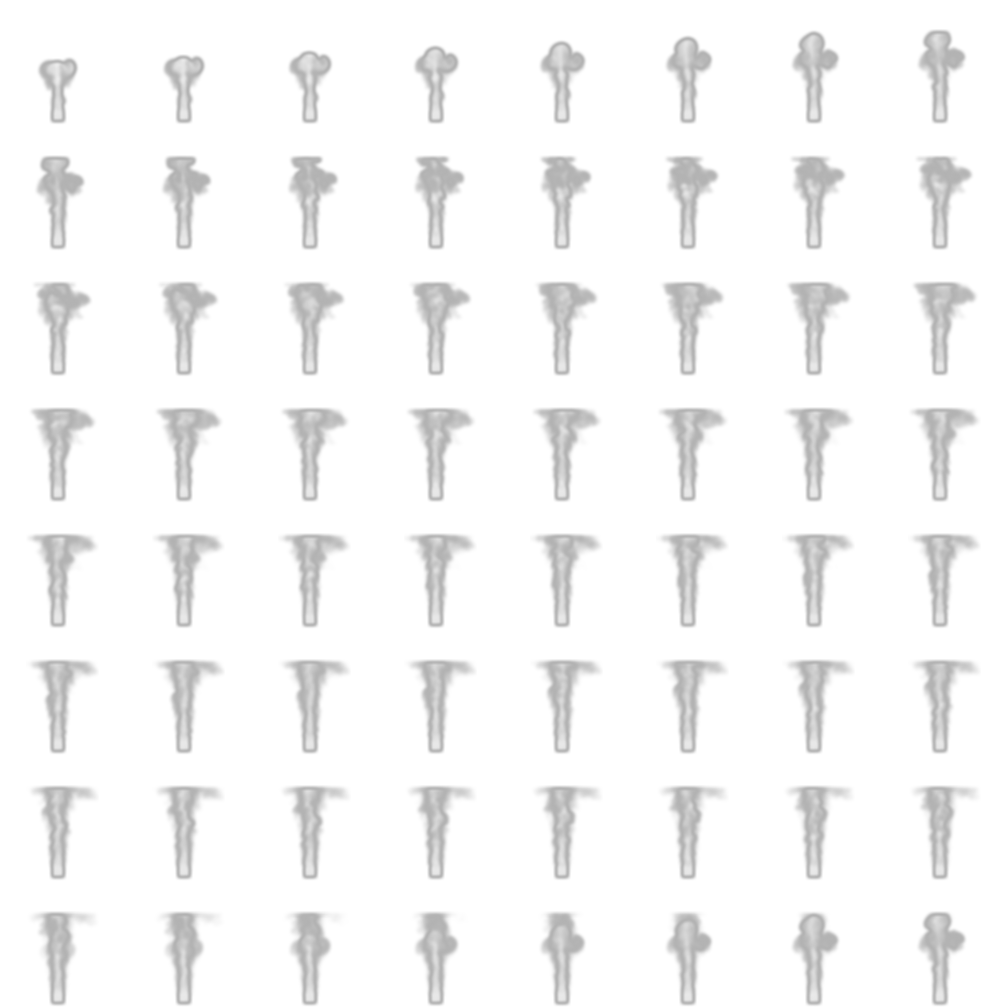
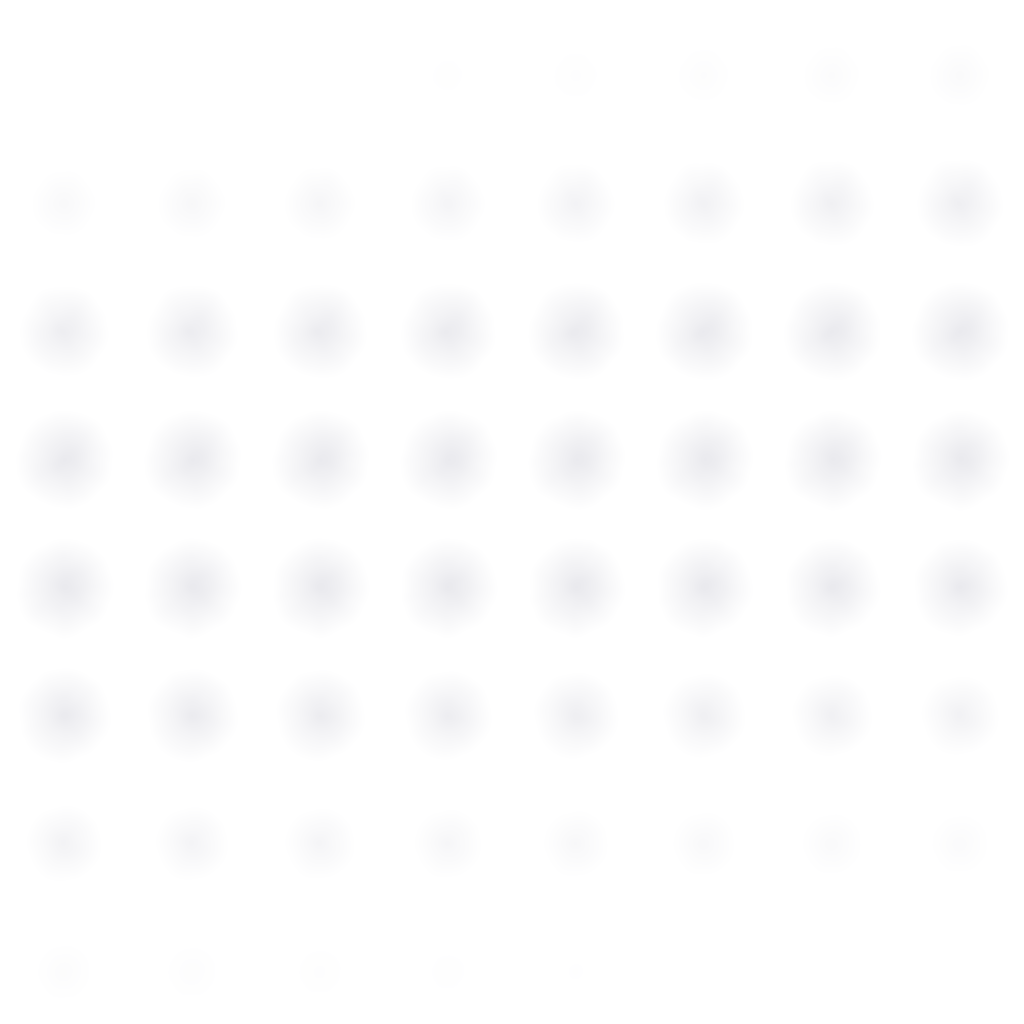
fix(jpov): puff 帧间连续性（去高频震颤）+ 黑烟也换 puff
- render_puff：噪声改「固定种子 + 随帧平滑漂移」，去掉逐帧变种子导致的纹理高频震颤；
  内部细节降频/降幅（减「细碎」）。新增 kind=smoke（白灰 puff，软圆）。
- 火/烟 flipbook 均改用 puff 程序化烘焙 → 烟不再「印章整片烟柱」。

diff --git a/tools/jpov/tools/fire/make_flipbook.py b/tools/jpov/tools/fire/make_flipbook.py
@@ -85,37 +85,47 @@ def _fbm(x, y, seed, octaves=3):
     return v / 0.875
 
 
-def render_puff(tiles, cell):
-    """烘「经典火舌 puff」flipbook：每格 = 一小团火（不规则软轮廓 + 内部噪声细节 +
-    随帧闪烁演化 + 点火→峰值→熄灭包络）。不需要体数据。"""
+def render_puff(tiles, cell, kind="fire"):
+    """烘 puff flipbook：每格 = 一小团（不规则软轮廓 + 内部噪声细节 + 点火→熄灭包络）。
+    kind="fire"：火色；kind="smoke"：白灰（引擎端染黑）。
+    ★ 帧间连续性：噪声用**固定种子 + 随帧平滑偏移**，不用逐帧变种子（否则纹理高频震颤）。"""
     nframes = tiles * tiles
     sheet = np.zeros((tiles * cell, tiles * cell, 4), np.float32)
     xs = (np.arange(cell, dtype=np.float32) + 0.5) / cell
     ys = (np.arange(cell, dtype=np.float32) + 0.5) / cell
-    U, V = np.meshgrid(xs, ys)          # V: 0=图像顶行
-    FY = 1.0 - V                        # FY: 0=底
+    U, V = np.meshgrid(xs, ys)
+    FY = 1.0 - V
     dx = U - 0.5
-    dyv = FY - 0.40                     # 重心略偏下
+    dyv = FY - 0.40
     ang = np.arctan2(dyv, dx)
-    rr = np.sqrt(dx * dx + (dyv * 0.82) ** 2)   # 竖直略拉长（火舌形）
+    stretch = 0.82 if kind == "fire" else 1.0     # 火舌略拉长；烟更圆
+    rr = np.sqrt(dx * dx + (dyv * stretch) ** 2)
     for f in range(nframes):
         t = f / float(max(1, nframes - 1))
-        env = min(t / 0.25, (1.0 - t) / 0.35)
+        if kind == "fire":
+            env = min(t / 0.25, (1.0 - t) / 0.35)
+        else:
+            env = min(t / 0.35, (1.0 - t) / 0.45)
         env = 0.0 if env < 0.0 else (1.0 if env > 1.0 else env)
-        env = env * env * (3.0 - 2.0 * env)     # smoothstep 点火/熄灭
-        wob = np.vectorize(lambda a_: _fbm(np.cos(a_) * 1.4 + 0.5,
-                                           np.sin(a_) * 1.4 + 0.5,
-                                           int(f) * 13 + 7))(ang)
-        rad = (0.30 + 0.10 * wob) * (0.55 + 0.45 * env)
+        env = env * env * (3.0 - 2.0 * env)
+        # 平滑的帧漂移（小）：轮廓与内部细节都用它随帧缓慢变 → 无高频震颤。
+        fd = f * (0.06 if kind == "fire" else 0.04)
+        wob = np.vectorize(lambda a_: _fbm(np.cos(a_) * 1.3 + 0.5,
+                                           np.sin(a_) * 1.3 + 0.5 + fd, 7))(ang)
+        r0 = 0.30 if kind == "fire" else 0.34
+        rad = (r0 + 0.09 * wob) * (0.55 + 0.45 * env)
         edge = np.clip(1.0 - rr / np.maximum(rad, 1e-4), 0.0, 1.0)
-        a = edge ** 1.25
-        detail = np.vectorize(lambda u_, v_: _fbm(u_ * 4.5, v_ * 4.5 + f * 0.35,
-                                                  int(f) * 29 + 3))(U, FY)
-        a *= (0.45 + 0.75 * detail)
+        a = edge ** (1.25 if kind == "fire" else 1.0)
+        detail = np.vectorize(lambda u_, v_: _fbm(u_ * 3.2, v_ * 3.2 + fd, 3))(U, FY)
+        a *= (0.62 + 0.48 * detail)     # 内部细节（降幅/降频，减“细碎”）
         a = np.clip(a * env, 0.0, 1.0)
-        R = np.full_like(a, 1.0)
-        G = np.clip(0.25 + 0.72 * np.minimum(1.0, a * 1.25), 0.0, 1.0)
-        B = a * a * a * 0.7
+        R = np.full_like(a, 1.0 if kind == "fire" else 0.90)
+        if kind == "fire":
+            G = np.clip(0.25 + 0.72 * np.minimum(1.0, a * 1.25), 0.0, 1.0)
+            B = a * a * a * 0.7
+        else:
+            G = np.full_like(a, 0.90)
+            B = np.full_like(a, 0.92)
         cellimg = np.zeros((cell, cell, 4), np.float32)
         cellimg[..., 0] = R
         cellimg[..., 1] = G
@@ -292,11 +302,11 @@ def main():
     out_path = sys.argv[3]
     tiles = int(sys.argv[4]) if len(sys.argv) > 4 else 8
 
-    if mode == "puff":
-        cell = int(sys.argv[2]) if False else 128   # puff 不需要体输入
-        rgba = render_puff(tiles, cell)
+    if mode in ("puff", "smokepuff"):
+        kind = "smoke" if mode == "smokepuff" else "fire"
+        rgba = render_puff(tiles, 128, kind)
         write_png(out_path, rgba)
-        print("wrote %s (puff, %dx%d)" % (out_path, rgba.shape[1], rgba.shape[0]))
+        print("wrote %s (%s, %dx%d)" % (out_path, kind, rgba.shape[1], rgba.shape[0]))
         return 0
 
     vol = load_jpovvol(in_path)
